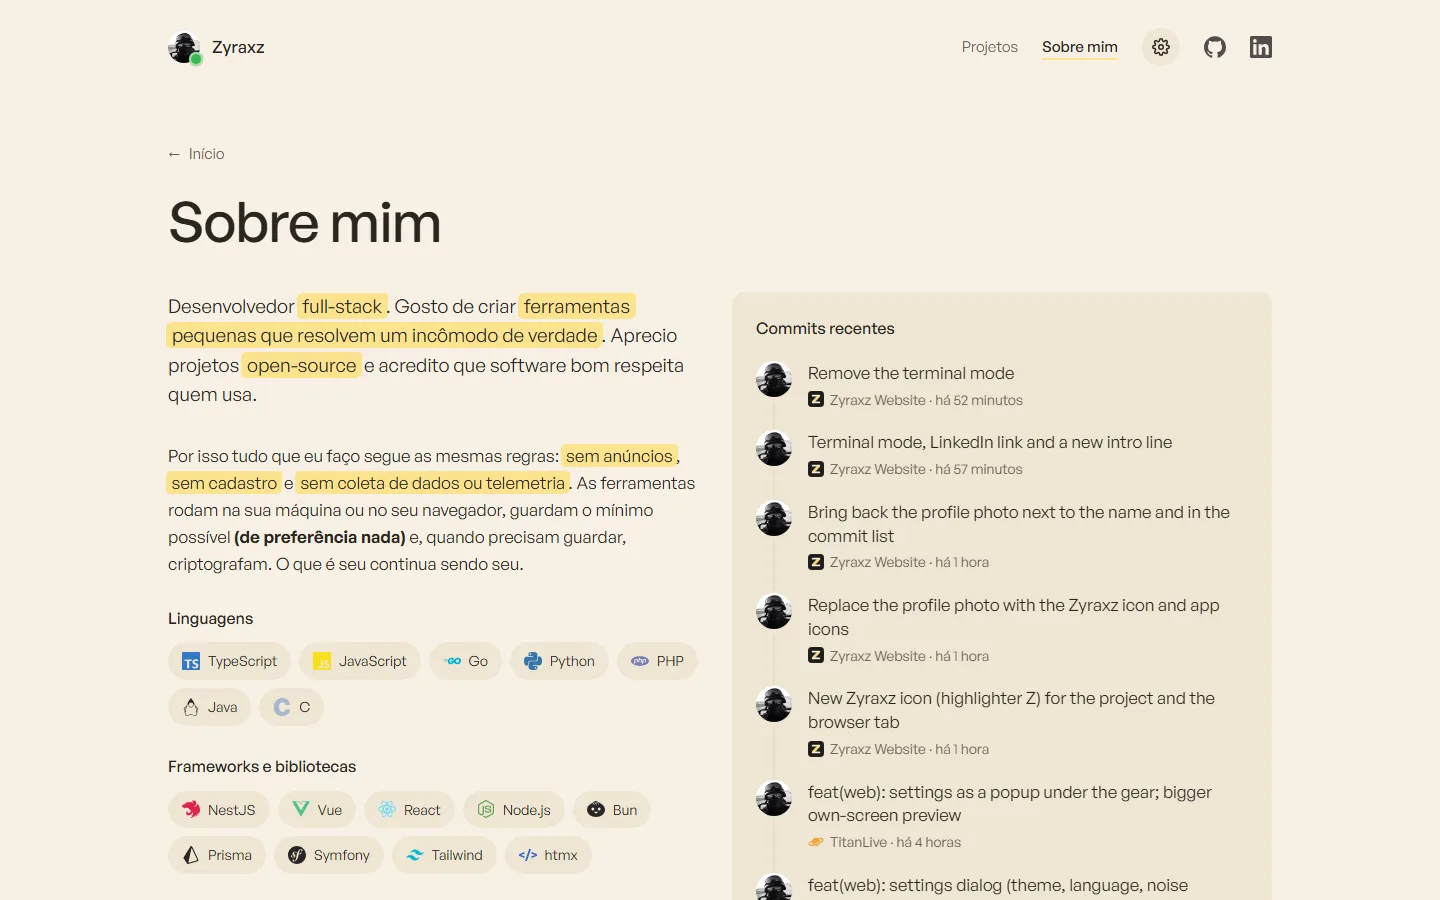
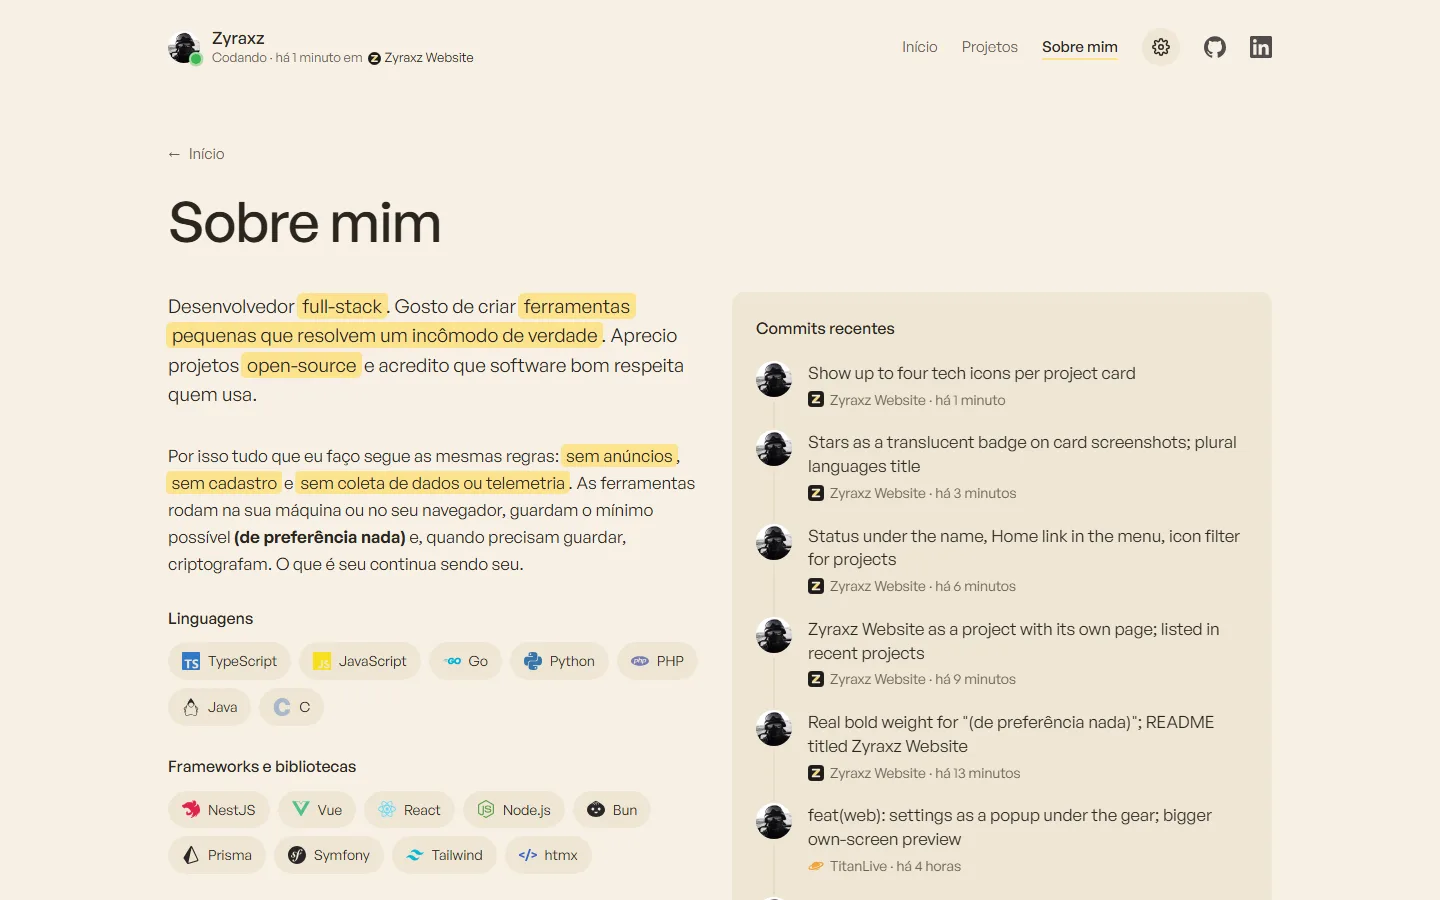
Badge follows the card radius; fresh screenshots in the READMEs

diff --git a/assets/css/main.css b/assets/css/main.css
@@ -287,5 +287,5 @@ section[hidden] { display: none; }
 
 /* stars as a translucent badge over the card screenshot */
 .card .shot { position: relative; }
-.stars.badge { position: absolute; top: 12px; right: 12px; margin: 0; padding: 5px 11px; border-radius: 999px; background: rgba(20, 19, 17, .55); color: #f3ead8; font-weight: 500; -webkit-backdrop-filter: blur(8px); backdrop-filter: blur(8px); box-shadow: 0 0 0 1px rgba(255, 255, 255, .12); }
+.stars.badge { position: absolute; top: 12px; right: 12px; margin: 0; padding: 6px 12px; border-radius: 12px; background: rgba(20, 19, 17, .55); color: #f3ead8; font-weight: 500; -webkit-backdrop-filter: blur(8px); backdrop-filter: blur(8px); box-shadow: 0 0 0 1px rgba(255, 255, 255, .12); }
 .stars.badge svg { fill: #f1d87a; }

diff --git a/404.html b/404.html
@@ -23,7 +23,7 @@
 <script src="/Zyraxz-website/assets/js/filters.js?v=90160bf8" defer></script>
 <script src="/Zyraxz-website/assets/js/reveal.js?v=31c127db" defer></script>
 <script src="/Zyraxz-website/assets/js/lightbox.js?v=b765a23e" defer></script>
-<link rel="stylesheet" href="/Zyraxz-website/assets/css/main.css?v=f9e2a8e4">
+<link rel="stylesheet" href="/Zyraxz-website/assets/css/main.css?v=33b9ed56">
 </head>
 <body>
 <div class="wrap">

diff --git a/projects/foculesspad.html b/projects/foculesspad.html
@@ -23,7 +23,7 @@
 <script src="../assets/js/filters.js?v=90160bf8" defer></script>
 <script src="../assets/js/reveal.js?v=31c127db" defer></script>
 <script src="../assets/js/lightbox.js?v=b765a23e" defer></script>
-<link rel="stylesheet" href="../assets/css/main.css?v=f9e2a8e4">
+<link rel="stylesheet" href="../assets/css/main.css?v=33b9ed56">
 </head>
 <body>
 <div class="wrap">

diff --git a/projects/foculesspdf.html b/projects/foculesspdf.html
@@ -23,7 +23,7 @@
 <script src="../assets/js/filters.js?v=90160bf8" defer></script>
 <script src="../assets/js/reveal.js?v=31c127db" defer></script>
 <script src="../assets/js/lightbox.js?v=b765a23e" defer></script>
-<link rel="stylesheet" href="../assets/css/main.css?v=f9e2a8e4">
+<link rel="stylesheet" href="../assets/css/main.css?v=33b9ed56">
 </head>
 <body>
 <div class="wrap">

diff --git a/projects/foculessyt.html b/projects/foculessyt.html
@@ -23,7 +23,7 @@
 <script src="../assets/js/filters.js?v=90160bf8" defer></script>
 <script src="../assets/js/reveal.js?v=31c127db" defer></script>
 <script src="../assets/js/lightbox.js?v=b765a23e" defer></script>
-<link rel="stylesheet" href="../assets/css/main.css?v=f9e2a8e4">
+<link rel="stylesheet" href="../assets/css/main.css?v=33b9ed56">
 </head>
 <body>
 <div class="wrap">

diff --git a/projects/gityx.html b/projects/gityx.html
@@ -23,7 +23,7 @@
 <script src="../assets/js/filters.js?v=90160bf8" defer></script>
 <script src="../assets/js/reveal.js?v=31c127db" defer></script>
 <script src="../assets/js/lightbox.js?v=b765a23e" defer></script>
-<link rel="stylesheet" href="../assets/css/main.css?v=f9e2a8e4">
+<link rel="stylesheet" href="../assets/css/main.css?v=33b9ed56">
 </head>
 <body>
 <div class="wrap">

diff --git a/projects/matchsim.html b/projects/matchsim.html
@@ -23,7 +23,7 @@
 <script src="../assets/js/filters.js?v=90160bf8" defer></script>
 <script src="../assets/js/reveal.js?v=31c127db" defer></script>
 <script src="../assets/js/lightbox.js?v=b765a23e" defer></script>
-<link rel="stylesheet" href="../assets/css/main.css?v=f9e2a8e4">
+<link rel="stylesheet" href="../assets/css/main.css?v=33b9ed56">
 </head>
 <body>
 <div class="wrap">

diff --git a/projects/restyx.html b/projects/restyx.html
@@ -23,7 +23,7 @@
 <script src="../assets/js/filters.js?v=90160bf8" defer></script>
 <script src="../assets/js/reveal.js?v=31c127db" defer></script>
 <script src="../assets/js/lightbox.js?v=b765a23e" defer></script>
-<link rel="stylesheet" href="../assets/css/main.css?v=f9e2a8e4">
+<link rel="stylesheet" href="../assets/css/main.css?v=33b9ed56">
 </head>
 <body>
 <div class="wrap">

diff --git a/projects/spotifycontrol.html b/projects/spotifycontrol.html
@@ -23,7 +23,7 @@
 <script src="../assets/js/filters.js?v=90160bf8" defer></script>
 <script src="../assets/js/reveal.js?v=31c127db" defer></script>
 <script src="../assets/js/lightbox.js?v=b765a23e" defer></script>
-<link rel="stylesheet" href="../assets/css/main.css?v=f9e2a8e4">
+<link rel="stylesheet" href="../assets/css/main.css?v=33b9ed56">
 </head>
 <body>
 <div class="wrap">

diff --git a/projects/titanlive.html b/projects/titanlive.html
@@ -23,7 +23,7 @@
 <script src="../assets/js/filters.js?v=90160bf8" defer></script>
 <script src="../assets/js/reveal.js?v=31c127db" defer></script>
 <script src="../assets/js/lightbox.js?v=b765a23e" defer></script>
-<link rel="stylesheet" href="../assets/css/main.css?v=f9e2a8e4">
+<link rel="stylesheet" href="../assets/css/main.css?v=33b9ed56">
 </head>
 <body>
 <div class="wrap">

diff --git a/projects/zyraxz.html b/projects/zyraxz.html
@@ -23,7 +23,7 @@
 <script src="../assets/js/filters.js?v=90160bf8" defer></script>
 <script src="../assets/js/reveal.js?v=31c127db" defer></script>
 <script src="../assets/js/lightbox.js?v=b765a23e" defer></script>
-<link rel="stylesheet" href="../assets/css/main.css?v=f9e2a8e4">
+<link rel="stylesheet" href="../assets/css/main.css?v=33b9ed56">
 </head>
 <body>
 <div class="wrap">

diff --git a/index.html b/index.html
@@ -23,7 +23,7 @@
 <script src="assets/js/filters.js?v=90160bf8" defer></script>
 <script src="assets/js/reveal.js?v=31c127db" defer></script>
 <script src="assets/js/lightbox.js?v=b765a23e" defer></script>
-<link rel="stylesheet" href="assets/css/main.css?v=f9e2a8e4">
+<link rel="stylesheet" href="assets/css/main.css?v=33b9ed56">
 </head>
 <body>
 <div class="wrap">
